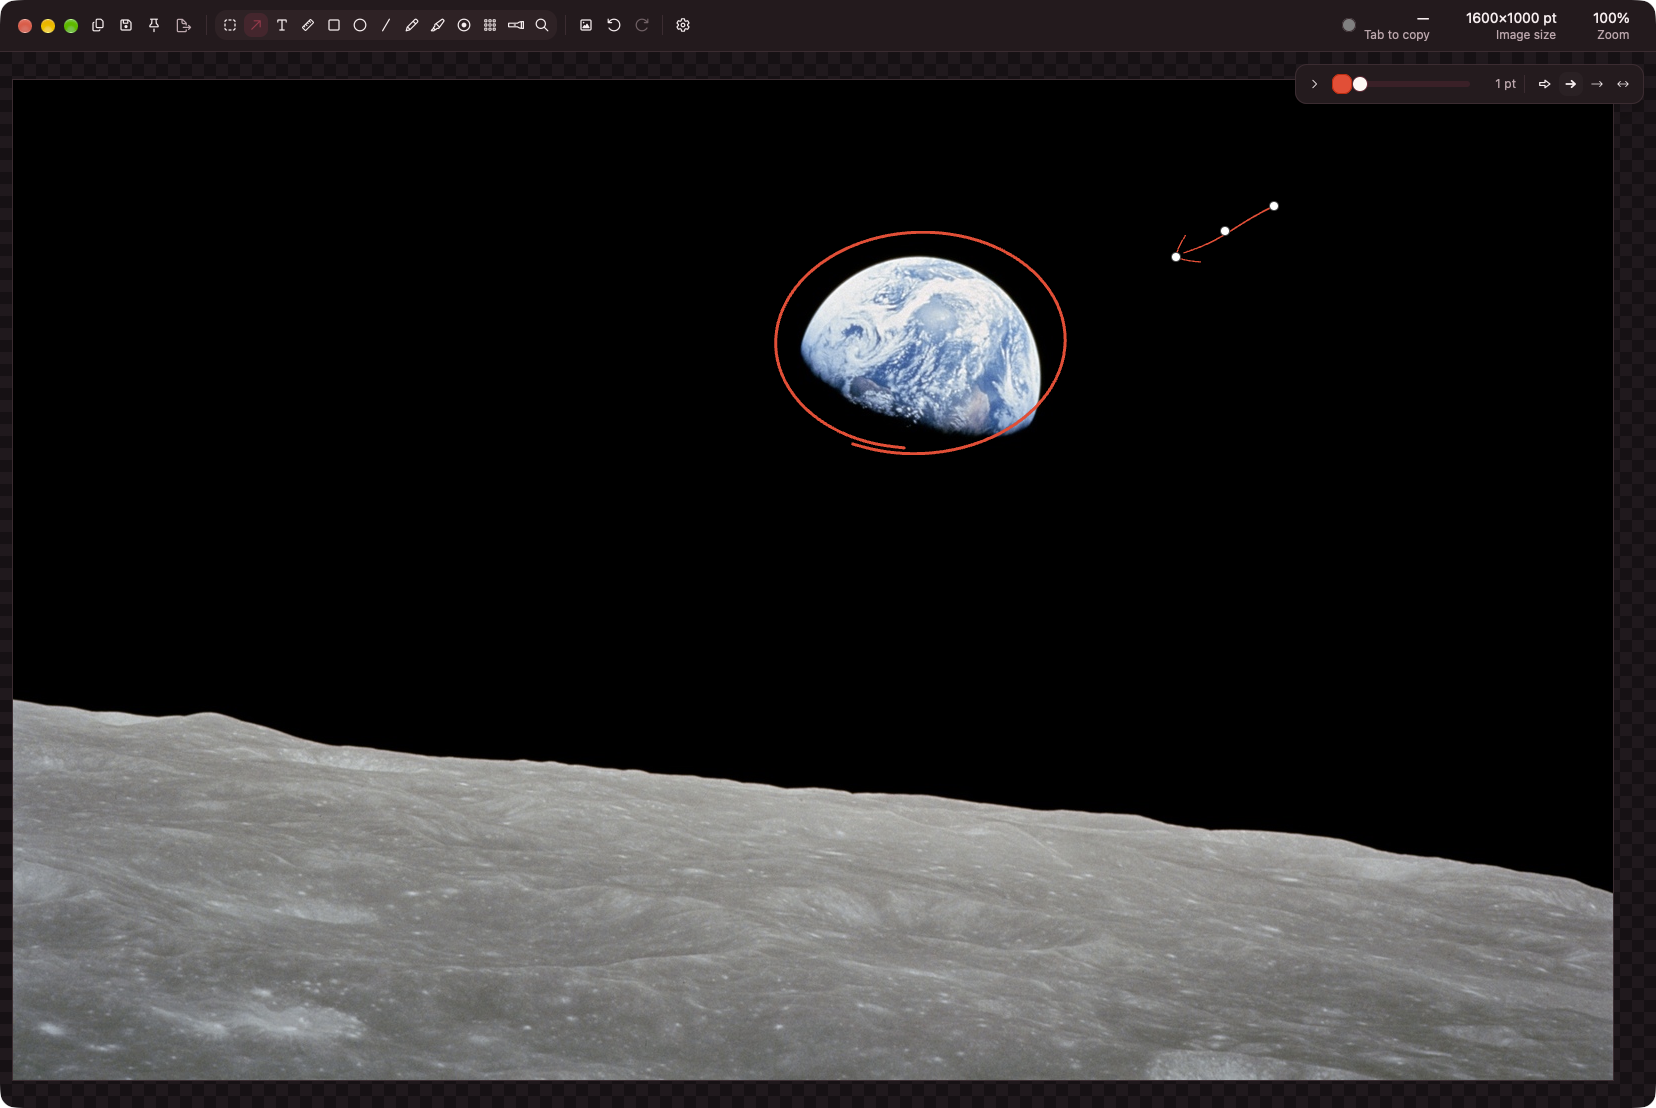
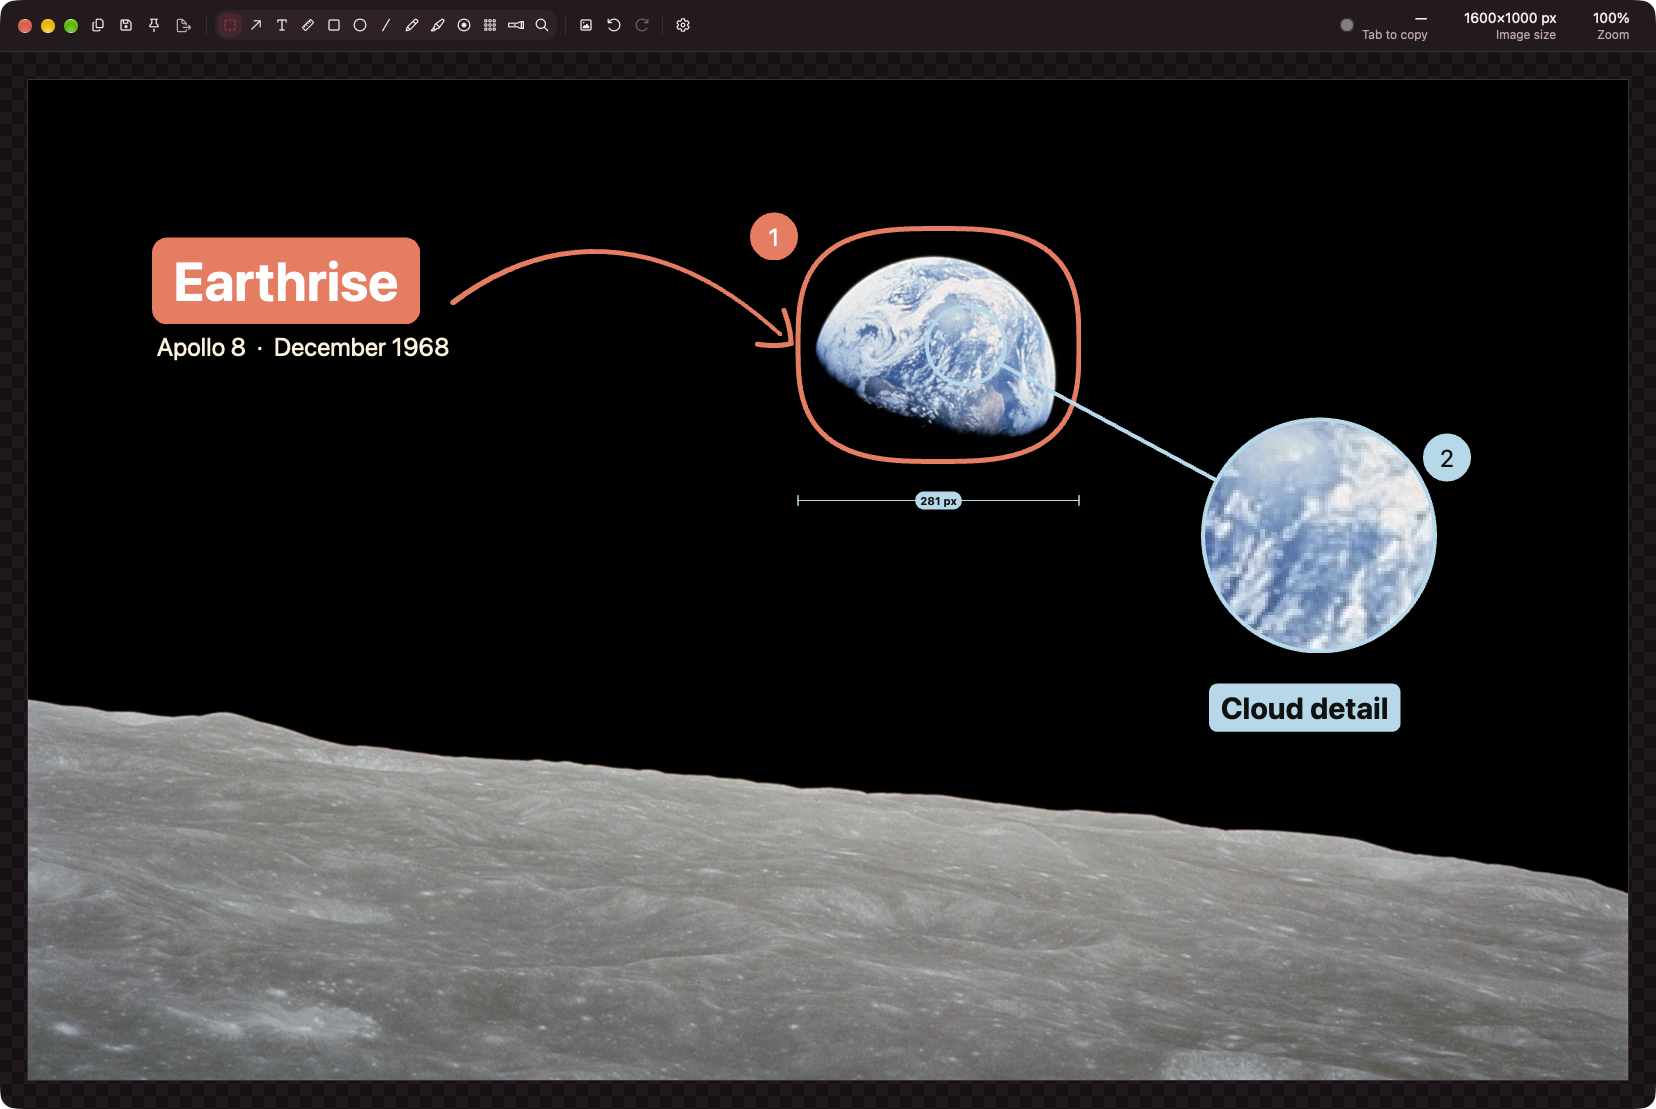
Show Shutr’s editor tools with fresh app captures

diff --git a/README.md b/README.md
@@ -26,8 +26,9 @@ Shutr is open source under the MIT license. Downloads are available for macOS 15
 The [product metadata](metadata.json) lists artwork paths relative to this directory and links to the release. The portfolio consumes this directory from its Shutr submodule.
 
 - Brand assets include the [app icon](assets/icon.png) and [editor showcase](assets/cover.webp). The [original editor screenshot](assets/editor-screenshot.webp) is available for press use.
+- The [editor tools sheet](assets/tool-showcase.webp) shows Shutr’s selection and drawing tools in use.
 - Real Shutr screenshots composited into studio scenes show [selecting a region](assets/capture.webp), [annotating](assets/annotate.webp), and [pinning](assets/share.webp).
-- The screenshots use [Apollo 8’s Earthrise photograph](https://science.nasa.gov/resource/apollo-8s-iconic-earthrise/) by NASA and Bill Anders.
+- The Earthrise scenes use [Apollo 8’s Earthrise photograph](https://science.nasa.gov/resource/apollo-8s-iconic-earthrise/) by NASA and Bill Anders.
 
 ## Attribution
 
